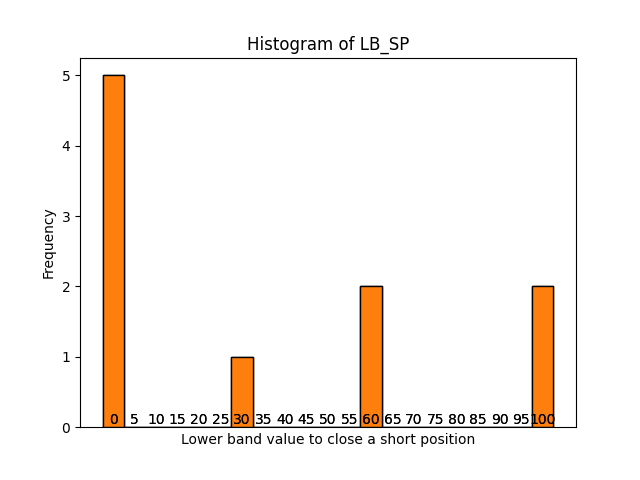
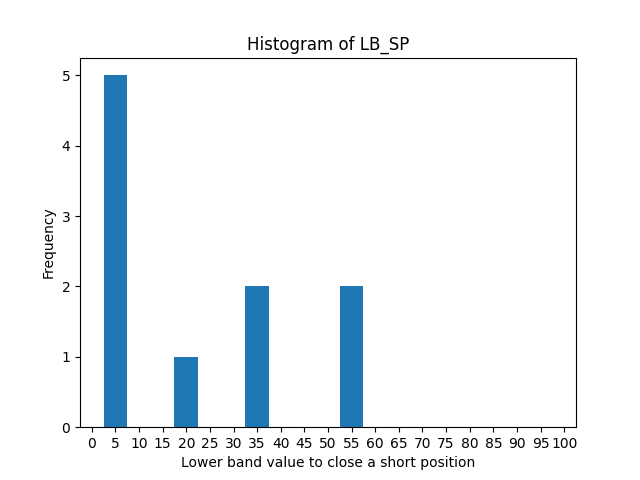
histograms

Changed region(s): [[0.125, 0.1562, 0.9062, 1.0]]

diff --git a/Proj2/ROImaximization.py b/Proj2/ROImaximization.py
@@ -55,8 +55,8 @@ XOM['Date'] = pd.to_datetime(XOM['Date'], format='%d/%m/%Y')
 csvs = [AAL, AAPL, AMZN, BAC, F, GOOG, IBM, INTC, NVDA, XOM]
 csvs_names = ['AAL', 'AAPL', 'AMZN', 'BAC', 'F', 'GOOG', 'IBM', 'INTC', 'NVDA', 'XOM']
 
-GENERATIONS = 1
-INITIAL_POPULATION = 10
+GENERATIONS = 100
+INITIAL_POPULATION = 100
 N_RUNS = 1
 INFINITY = np.inf
 GAP_ANALYZED = 20
@@ -281,7 +281,7 @@ def oa_csv(csv_name):
         # A new generation
         g = g + 1
         
-        if (g%50 == 0):
+        if (g % 50 == 0):
             print("-- Generation %i --" % g)
         
         # Select the next generation individuals
@@ -340,7 +340,7 @@ def oa_csv(csv_name):
         # print("  Std %s" % std)
         
         if g > GAP_ANALYZED:
-            improve_perf = max_by_generations[g] - max_by_generations[g - GAP_ANALYZED]  
+            improve_perf = max_by_generations[g - 1] - max_by_generations[g - GAP_ANALYZED - 1]  
         
         best_ind_gen = tools.selBest(pop, 1)[0]
         # print("Best individual in generation %d: %s, %s" % (g, best_ind_gen, best_ind_gen.fitness.values))
@@ -350,86 +350,95 @@ def oa_csv(csv_name):
     
     best_ind = tools.selBest(pop, 1)[0]
     print("Best individual is %s, %s" % (best_ind, best_ind.fitness.values))
+    print('Obtained at generation ', g)
+    print('Succesive generations maximums ', max_by_generations)
     
     return min(fits), max(fits), mean, std, best_ind, best_ind.fitness.values
 
 
 def generate_histograms(best_individuals):
     
-    #TODO -> 2,3,4,5 ERRADOS
-    
+    data = pd.DataFrame(best_individuals, columns=['RSI_long', 'RSI_short', 'LB_LP', 'UP_LP', 'LB_SP', 'UP_SP'])
+
     # RSI_long, RSI_short, LB_LP, UP_LP, LB_SP, UP_SP = individual
     array_days = [7, 14, 21]
     array_multiples_five = [5*i for i in range(21)]
     
+    # print('HIST, RSI_long', np.array(best_individuals)[:, 0])
     plt.figure(0)
-    hist, bins, _ = plt.hist(np.array(best_individuals)[:, 0], bins=3, align='mid', edgecolor='k')
-    bin_centers = 0.5 * (bins[:-1] + bins[1:])
-    plt.xticks([])
+    categories = data['RSI_long'].value_counts().index
+    counts = data['RSI_long'].value_counts().values
+    plt.bar(categories, counts, width=7)
     plt.xlabel('RSI period to apply for long positions')
     plt.ylabel('Frequency')
     plt.title('Histogram of RSI_long')
-    for center, label in zip(bin_centers, array_days):
-        plt.text(center, 0, str(label), ha='center', va='bottom')
+    plt.xlim([3.5, 24.5])
+    plt.xticks(array_days) 
     plt.savefig('RSI_long.png')
     
+    # print('HIST, RSI_short', np.array(best_individuals)[:, 1])
     plt.figure(1)
-    hist, bins, _ = plt.hist(np.array(best_individuals)[:, 1], bins=3, align='mid', edgecolor='k')
-    bin_centers = 0.5 * (bins[:-1] + bins[1:])
-    plt.xticks([])
+    categories = data['RSI_short'].value_counts().index
+    counts = data['RSI_short'].value_counts().values
+    plt.bar(categories, counts, width=7)
     plt.xlabel('RSI period to apply for short positions')
     plt.ylabel('Frequency')
     plt.title('Histogram of RSI_short')
-    for center, label in zip(bin_centers, array_days):
-        plt.text(center, 0, str(label), ha='center', va='bottom')
+    plt.xlim([3.5, 24.5])
+    plt.xticks(array_days)
     plt.savefig('RSI_short.png')
     
+    # print('HIST, LB_LP', np.array(best_individuals)[:, 2])
     plt.figure(2)
-    hist, bins, _ = plt.hist(np.array(best_individuals)[:, 2], bins=21, align='mid', edgecolor='k')
-    bin_centers = 0.5 * (bins[:-1] + bins[1:])
-    plt.xticks([]) 
+    categories = data['LB_LP'].value_counts().index
+    counts = data['LB_LP'].value_counts().values
+    plt.bar(categories, counts, width=5)
     plt.xlabel('Lower band value to open a long position')
     plt.ylabel('Frequency')
     plt.title('Histogram of LB_LP')
-    for center, label in zip(bin_centers, array_multiples_five):
-        plt.text(center, 0, str(label), ha='center', va='bottom')
+    plt.xlim([-2.5, 102.5])
+    plt.xticks(array_multiples_five) 
     plt.savefig('LB_LP.png')
     
+    # print('HIST, UP_LP', np.array(best_individuals)[:, 3])
     plt.figure(3)
-    hist, bins, _ = plt.hist(np.array(best_individuals)[:, 3], bins=21, align='mid', edgecolor='k')
-    bin_centers = 0.5 * (bins[:-1] + bins[1:])
-    plt.xticks([])  
+    categories = data['UP_LP'].value_counts().index
+    counts = data['UP_LP'].value_counts().values
+    plt.bar(categories, counts, width=5)
     plt.xlabel('Upper band value to close a long position')
     plt.ylabel('Frequency')
-    plt.title('Histogram of UB_LP')
-    for center, label in zip(bin_centers, array_multiples_five):
-        plt.text(center, 0, str(label), ha='center', va='bottom')
-    plt.savefig('UB_LP.png')
+    plt.title('Histogram of UP_LP')
+    plt.xlim([-2.5, 102.5])
+    plt.xticks(array_multiples_five) 
+    plt.savefig('UP_LP.png')
     
+    # print('HIST, LB_SP', np.array(best_individuals)[:, 4])
     plt.figure(4)
-    hist, bins, _ = plt.hist(np.array(best_individuals)[:, 4], bins=21, align='mid', edgecolor='k')
-    bin_centers = 0.5 * (bins[:-1] + bins[1:])
-    plt.xticks([]) 
+    categories = data['LB_SP'].value_counts().index
+    counts = data['LB_SP'].value_counts().values
+    plt.bar(categories, counts, width=5)
     plt.xlabel('Lower band value to close a short position')
     plt.ylabel('Frequency')
     plt.title('Histogram of LB_SP')
-    for center, label in zip(bin_centers, array_multiples_five):
-        plt.text(center, 0, str(label), ha='center', va='bottom')
+    plt.xlim([-2.5, 102.5])
+    plt.xticks(array_multiples_five) 
     plt.savefig('LB_SP.png')
     
+    # print('HIST, UP_SP', np.array(best_individuals)[:, 5])
     plt.figure(5)
-    hist, bins, _ = plt.hist(np.array(best_individuals)[:, 5], bins=21, align='mid', edgecolor='k')
-    bin_centers = 0.5 * (bins[:-1] + bins[1:])
-    plt.xticks([])   
+    categories = data['UP_SP'].value_counts().index
+    counts = data['UP_SP'].value_counts().values
+    plt.bar(categories, counts, width=5)  
     plt.xlabel('Upper band value to open a short position')
     plt.ylabel('Frequency')
-    plt.title('Histogram of UB_SP')
-    for center, label in zip(bin_centers, array_multiples_five):
-        plt.text(center, 0, str(label), ha='center', va='bottom')
-    plt.savefig('UB_SP.png')
+    plt.title('Histogram of UP_SP')
+    plt.xlim([-2.5, 102.5])
+    plt.xticks(array_multiples_five) 
+    plt.savefig('UP_SP.png')
     
 def generate_boxplots(fitness_csvs):
     #TODO    
+    return
 
 def main():
     
@@ -464,9 +473,7 @@ def main():
         min_final.append(np.mean(list_min))
         avg_final.append(np.mean(list_avg))
         std_final.append(np.mean(list_std))
-        fitness_csvs.append(fitness_final)
-        
-        
+        fitness_csvs.append(fitness_final)        
     
     result['Max'] = max_final 
     result['Min'] = min_final
@@ -477,34 +484,14 @@ def main():
     generate_histograms(best_individuals)
     generate_boxplots(fitness_csvs)
     
-    
-    
 
 import time
-start_time = time.time()
-main()
-print("--- %s seconds ---" % (time.time() - start_time))
 
 if __name__ == "__main__":
     start_time = time.time()
     
     main()
     
-    av_time = (time.time() - start_time) / N_RUNS
-    print("--- %s seconds ---" % (av_time))
+    time_program = time.time() - start_time
+    print("--- %s seconds ---" % (time_program))
     
-    
-
-# Results
-
-# (cxTwoPoint,mutFlipBit): 0.813s
-# (cxTwoPoint,mutGaussian): 0.960s
-# (cxTwoPoint,mutShuffleIndexes): 0.626s
-
-# (cxOnePoint,mutFlipBit): 0.951s
-# (cxOnePoint,mutGaussian): 1.278s
-# (cxOnePoint,mutShuffleIndexes): 0.609s
-
-# (cxPartialyMatched,mutFlipBit): 1.94s
-# (cxPartialyMatched,mutGaussian): NAN
-# (cxPartialyMatched,mutShuffleIndexes): 21.2s
